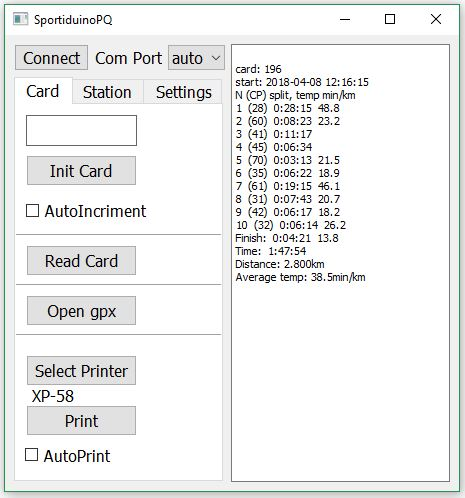
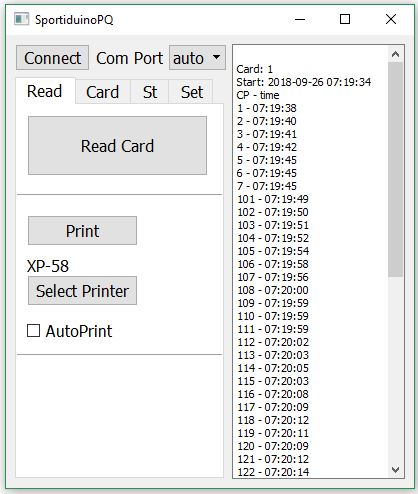
0.5.0

Changed region(s): [[0.0, 0.0, 0.9952, 1.0]]

diff --git a/SportiduinoPQ.py b/SportiduinoPQ.py
@@ -5,10 +5,8 @@ import time
 import datetime
 import serial
 import json
-import xmltodict
 import copy
 import design
-from math import cos, asin, sqrt
 from sportiduino import Sportiduino
 from datetime import datetime, timedelta
 from PyQt5 import uic, QtWidgets, QtPrintSupport, QtCore, sip
@@ -29,14 +27,10 @@ class App(QtWidgets.QMainWindow, design.Ui_MainWindow):
         self.StatNum = '0'
         self.OldPass.setText('0')
         self.NewPass.setText('0')
-        self.gps = {}
         self.printerName.setText(QPrinter().printerName())
         
         self.initTime = datetime.now()
         self.addText('{:%Y-%m-%d %H:%M:%S}'.format(self.initTime))
-
-        now = QtCore.QDateTime.currentDateTime()
-        self.dateTimeEdit.setDateTime(now)
 
         self.Connec.clicked.connect(self.Connec_clicked)
         self.ReadCard.clicked.connect(self.ReadCard_clicked)
@@ -55,8 +49,9 @@ class App(QtWidgets.QMainWindow, design.Ui_MainWindow):
         self.LoadSet.clicked.connect(self.LoadSet_clicked)
         self.SelectPrinter.clicked.connect(self.SelectPrinter_clicked)
         self.Print.clicked.connect(self.Print_clicked)
-        self.OpenGpx.clicked.connect(self.OpenGpx_clicked)
 
+
+        
     def Connec_clicked(self):
 
         if (self.connected == False):
@@ -88,18 +83,11 @@ class App(QtWidgets.QMainWindow, design.Ui_MainWindow):
             self.addText('\nmaster station is not connected')
             return
 
-        force_start = None
-        
         try:
             data = self.sportiduino.read_card(timeout = 0.5)
             self.sportiduino.beep_ok()
             
-            if (self.ForceStart.checkState() != 0):
-                forceStartTime = self.dateTimeEdit.dateTime().toMSecsSinceEpoch() // 1000
-                py_date = datetime.fromtimestamp(forceStartTime)
-                force_start = py_date
-                
-            self.readDataFormat(data, force_start = force_start)
+            self.readDataFormat(data)
             self.saveDataJson(data)
             
         except:
@@ -391,83 +379,28 @@ class App(QtWidgets.QMainWindow, design.Ui_MainWindow):
         self.textBrowser.document().setDocumentMargin(0.0)
         self.textBrowser.document().print_(self.printer)
 
-    def readDataFormat(self,data, force_start = None):
+    def readDataFormat(self,data):
 
         data = copy.deepcopy(data)
 
-        totalDist = 0
-        totalTime = 0
         readBuffer ='\nCard: {}'.format(data['card_number'])
-
-        if force_start is not None:
-            data['start'] = force_start
+        print(data)
 
         if('start' in data):
             readBuffer +='\nStart: {}'.format(data['start'])
             
         if ('punches' in data):
             punches = data['punches']
-            if ('start' in data):
-                predT = data['start']
-                isPredT = True
-            elif (len(punches)>0):
-                predT = punches[0][1]
-                isPredT = True
-            else:
-                isPredT = False
-            predNum = 240
-            readBuffer +='\nN (CP) split, temp min/km'
-            for punch in range(0, len(punches), 1):
-                split = punches[punch][1].timestamp()-predT.timestamp()
-                if (split > 0):
-                    dist = 0
-                    try:
-                        dist = self.distance(str(punches[punch][0]),predNum)
-                    except:
-                        pass
-                    if (dist == 0 or dist is None):
-                        dist =''
-                    else:
-                        totalDist += dist
-                        dist = '{0:4.1f}'.format((split/60)/dist)
-                    readBuffer +='\n{}  ({})  {}  {}'.format(punch+1,\
-                                                                punches[punch][0],\
-                                                                punches[punch][1]-predT,\
-                                                                dist)
-                else:
-                    readBuffer +='\n{}  ({})  error val'.format(punch,\
-                                                                punches[punch][0])
-                predT = punches[punch][1]
-                predNum = punches[punch][0]
-                    
-        if('finish' in data and isPredT == True):
-            split = data['finish'].timestamp()-predT.timestamp()
-            if (split > 0):
-                dist = 0
-                try:
-                    dist = self.distance(245,predNum)
-                except:
-                    pass
-                if (dist == 0 or dist is None):
-                    dist =''
-                else:
-                    totalDist += dist
-                    dist = '{0:4.1f}'.format((split/60)/dist)
-                readBuffer +='\nFinish:  {}  {}'.format(data['finish']-predT, dist)
-            else:
-                readBuffer +='\nFinish:  error val'
-            
-        if ('finish' in data and 'start' in data):
-            if (data['finish'].timestamp()-data['start'].timestamp() > 0):
-                readBuffer +='\nTime:  {}'.format(data['finish']-data['start'])
-                totalTime = data['finish'].timestamp()-data['start'].timestamp()
-            else:
-                readBuffer +='\nTime:  error val'
 
-        if (totalDist != 0):
-            readBuffer += '\nDistance: {0:4.3f}km'.format(totalDist)
-            if (totalTime != 0):
-                readBuffer += '\nAverage temp: {0:4.1f}min/km'.format((totalTime/60)/totalDist)
+            readBuffer +='\nCP - time'
+            for punch in range(0, len(punches), 1):
+                readBuffer += '\n{} - {:%H:%M:%S}'.format(punches[punch][0],punches[punch][1])
+                    
+        if('finish' in data):
+            readBuffer +='\nFinish:  {}'.format(data['finish'])
+
+        if ('finish' in data and 'start' in data):
+            readBuffer += '\n{}'.format(data['finish']-data['start'])
            
         self.addText(readBuffer)
         if (self.AutoPrint.checkState()!= 0):
@@ -495,42 +428,7 @@ class App(QtWidgets.QMainWindow, design.Ui_MainWindow):
             
         dataFile = open(os.path.join('data','readData{:%Y%m%d%H%M%S}.json'.format(self.initTime)),'w')
         json.dump(self.readData, dataFile)
-        dataFile.close()
-
-        
-
-    def OpenGpx_clicked(self):
-
-        fname = QFileDialog.getOpenFileName(self, 'Open file', '/home')[0]
-        try:
-            gpxFile = open(fname)
-            gpx_xml = gpxFile.read()
-            gpx_dict = xmltodict.parse(gpx_xml)
-            buffer = '\nGPX file have been loaded'
-            points = gpx_dict['gpx']['wpt']
-            for point in range(0, len(points), 1):
-                coord = (points[point]['@lat'], points[point]['@lon'])
-                name = points[point]['name'] 
-                self.gps[name] = coord
-                buffer += '\n{} {}'.format(name,coord)
-            self.addText(buffer)
-        except:
-            self.addText('\nError')
-
-    def distance(self,p1, p2):
-        if (str(p1) in self.gps and str(p2) in self.gps):
-            lat1 = float(self.gps[str(p1)][0])
-            lon1 = float(self.gps[str(p1)][1])
-            lat2 = float(self.gps[str(p2)][0])
-            lon2 = float(self.gps[str(p2)][1])
-            p = 0.017453292519943295
-            a = 0.5 - cos((lat2 - lat1) * p)/2 + \
-                cos(lat1 * p) * cos(lat2 * p) * (1 - cos((lon2 - lon1) * p)) / 2
-            return 12742 * asin(sqrt(a))
-        else:
-            return None
-        
-            
+        dataFile.close()       
         
         
 if __name__ == '__main__':

diff --git a/design.py b/design.py
@@ -2,7 +2,7 @@
 
 # Form implementation generated from reading ui file 'design.ui'
 #
-# Created by: PyQt5 UI code generator 5.11.2
+# Created by: PyQt5 UI code generator 5.8.2
 #
 # WARNING! All changes made in this file will be lost!
 
@@ -85,53 +85,39 @@ class Ui_MainWindow(object):
         self.Print.setGeometry(QtCore.QRect(10, 110, 111, 31))
         self.Print.setObjectName("Print")
         self.SelectPrinter = QtWidgets.QPushButton(self.tab_4)
-        self.SelectPrinter.setGeometry(QtCore.QRect(10, 160, 111, 31))
+        self.SelectPrinter.setGeometry(QtCore.QRect(10, 170, 111, 31))
         self.SelectPrinter.setObjectName("SelectPrinter")
         self.ReadCard = QtWidgets.QPushButton(self.tab_4)
-        self.ReadCard.setGeometry(QtCore.QRect(10, 10, 111, 31))
+        self.ReadCard.setGeometry(QtCore.QRect(10, 10, 181, 61))
         self.ReadCard.setObjectName("ReadCard")
-        self.OpenGpx = QtWidgets.QPushButton(self.tab_4)
-        self.OpenGpx.setGeometry(QtCore.QRect(10, 60, 111, 31))
-        self.OpenGpx.setObjectName("OpenGpx")
         self.AutoPrint = QtWidgets.QCheckBox(self.tab_4)
-        self.AutoPrint.setGeometry(QtCore.QRect(10, 200, 121, 31))
+        self.AutoPrint.setGeometry(QtCore.QRect(10, 210, 121, 31))
         self.AutoPrint.setObjectName("AutoPrint")
         self.printerName = QtWidgets.QLabel(self.tab_4)
-        self.printerName.setGeometry(QtCore.QRect(10, 130, 141, 41))
+        self.printerName.setGeometry(QtCore.QRect(10, 140, 141, 41))
         self.printerName.setText("")
         self.printerName.setObjectName("printerName")
         self.line_8 = QtWidgets.QFrame(self.tab_4)
-        self.line_8.setGeometry(QtCore.QRect(0, 40, 211, 20))
+        self.line_8.setGeometry(QtCore.QRect(0, 80, 211, 20))
         self.line_8.setFrameShape(QtWidgets.QFrame.HLine)
         self.line_8.setFrameShadow(QtWidgets.QFrame.Sunken)
         self.line_8.setObjectName("line_8")
-        self.line_9 = QtWidgets.QFrame(self.tab_4)
-        self.line_9.setGeometry(QtCore.QRect(0, 90, 211, 20))
-        self.line_9.setFrameShape(QtWidgets.QFrame.HLine)
-        self.line_9.setFrameShadow(QtWidgets.QFrame.Sunken)
-        self.line_9.setObjectName("line_9")
         self.line_10 = QtWidgets.QFrame(self.tab_4)
-        self.line_10.setGeometry(QtCore.QRect(0, 220, 211, 20))
+        self.line_10.setGeometry(QtCore.QRect(0, 240, 211, 20))
         self.line_10.setFrameShape(QtWidgets.QFrame.HLine)
         self.line_10.setFrameShadow(QtWidgets.QFrame.Sunken)
         self.line_10.setObjectName("line_10")
-        self.dateTimeEdit = QtWidgets.QDateTimeEdit(self.tab_4)
-        self.dateTimeEdit.setGeometry(QtCore.QRect(10, 270, 161, 22))
-        self.dateTimeEdit.setObjectName("dateTimeEdit")
-        self.ForceStart = QtWidgets.QCheckBox(self.tab_4)
-        self.ForceStart.setGeometry(QtCore.QRect(10, 240, 121, 31))
-        self.ForceStart.setObjectName("ForceStart")
         self.Log.addTab(self.tab_4, "")
         self.tab = QtWidgets.QWidget()
         self.tab.setObjectName("tab")
         self.InitCard = QtWidgets.QPushButton(self.tab)
-        self.InitCard.setGeometry(QtCore.QRect(10, 50, 111, 31))
+        self.InitCard.setGeometry(QtCore.QRect(10, 70, 171, 61))
         self.InitCard.setObjectName("InitCard")
         self.cardLine = QtWidgets.QLineEdit(self.tab)
-        self.cardLine.setGeometry(QtCore.QRect(10, 10, 111, 31))
+        self.cardLine.setGeometry(QtCore.QRect(10, 10, 171, 51))
         self.cardLine.setObjectName("cardLine")
         self.AutoIncriment = QtWidgets.QCheckBox(self.tab)
-        self.AutoIncriment.setGeometry(QtCore.QRect(10, 90, 151, 31))
+        self.AutoIncriment.setGeometry(QtCore.QRect(10, 140, 151, 31))
         self.AutoIncriment.setObjectName("AutoIncriment")
         self.Log.addTab(self.tab, "")
         self.tab_2 = QtWidgets.QWidget()
@@ -356,9 +342,7 @@ class Ui_MainWindow(object):
         self.Print.setText(_translate("MainWindow", "Print"))
         self.SelectPrinter.setText(_translate("MainWindow", "Select Printer"))
         self.ReadCard.setText(_translate("MainWindow", "Read Card"))
-        self.OpenGpx.setText(_translate("MainWindow", "Open gpx"))
         self.AutoPrint.setText(_translate("MainWindow", "AutoPrint"))
-        self.ForceStart.setText(_translate("MainWindow", "ForceStart"))
         self.Log.setTabText(self.Log.indexOf(self.tab_4), _translate("MainWindow", "Read"))
         self.InitCard.setText(_translate("MainWindow", "Init Card"))
         self.AutoIncriment.setText(_translate("MainWindow", "AutoIncriment"))

diff --git a/README.ru.md b/README.ru.md
@@ -1,6 +1,6 @@
 # sportiduinoPQ
 
-### версия 0.4.1
+### версия 0.5.0
 
 В [последнем релизе](https://github.com/alexandervolikov/SportiduinoPQ/releases) программу с exe файлом для Windows систем, установка не требуется (версия 0.2.1). 
 

diff --git a/README.md b/README.md
@@ -1,6 +1,6 @@
 # sportiduinoPQ
 
-### version 0.4.1
+### version 0.5.0
 
 In the [last release](https://github.com/alexandervolikov/SportiduinoPQ/releases), you can download the program with the exe file for Windows systems, the installation is not required. 
 

diff --git a/CHANGELOG.md b/CHANGELOG.md
@@ -1,3 +1,6 @@
+## [0.5.0] - 2018-09-26
+### del some function
+
 ## [0.4.1] - 2018-07-16
 ### add force start time
 - add force for correct split print
